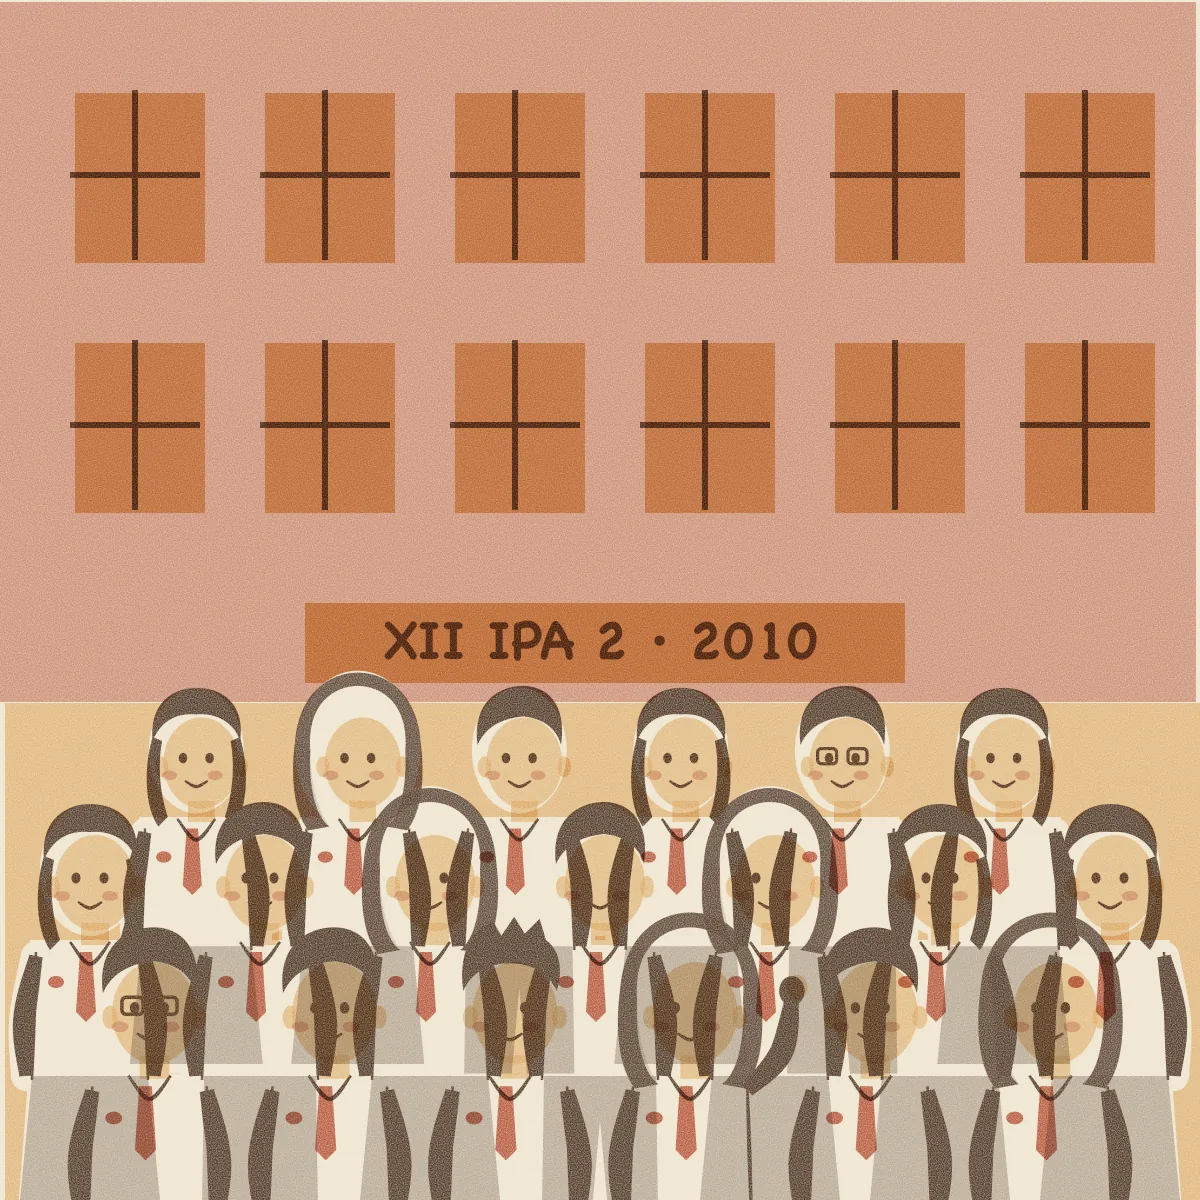
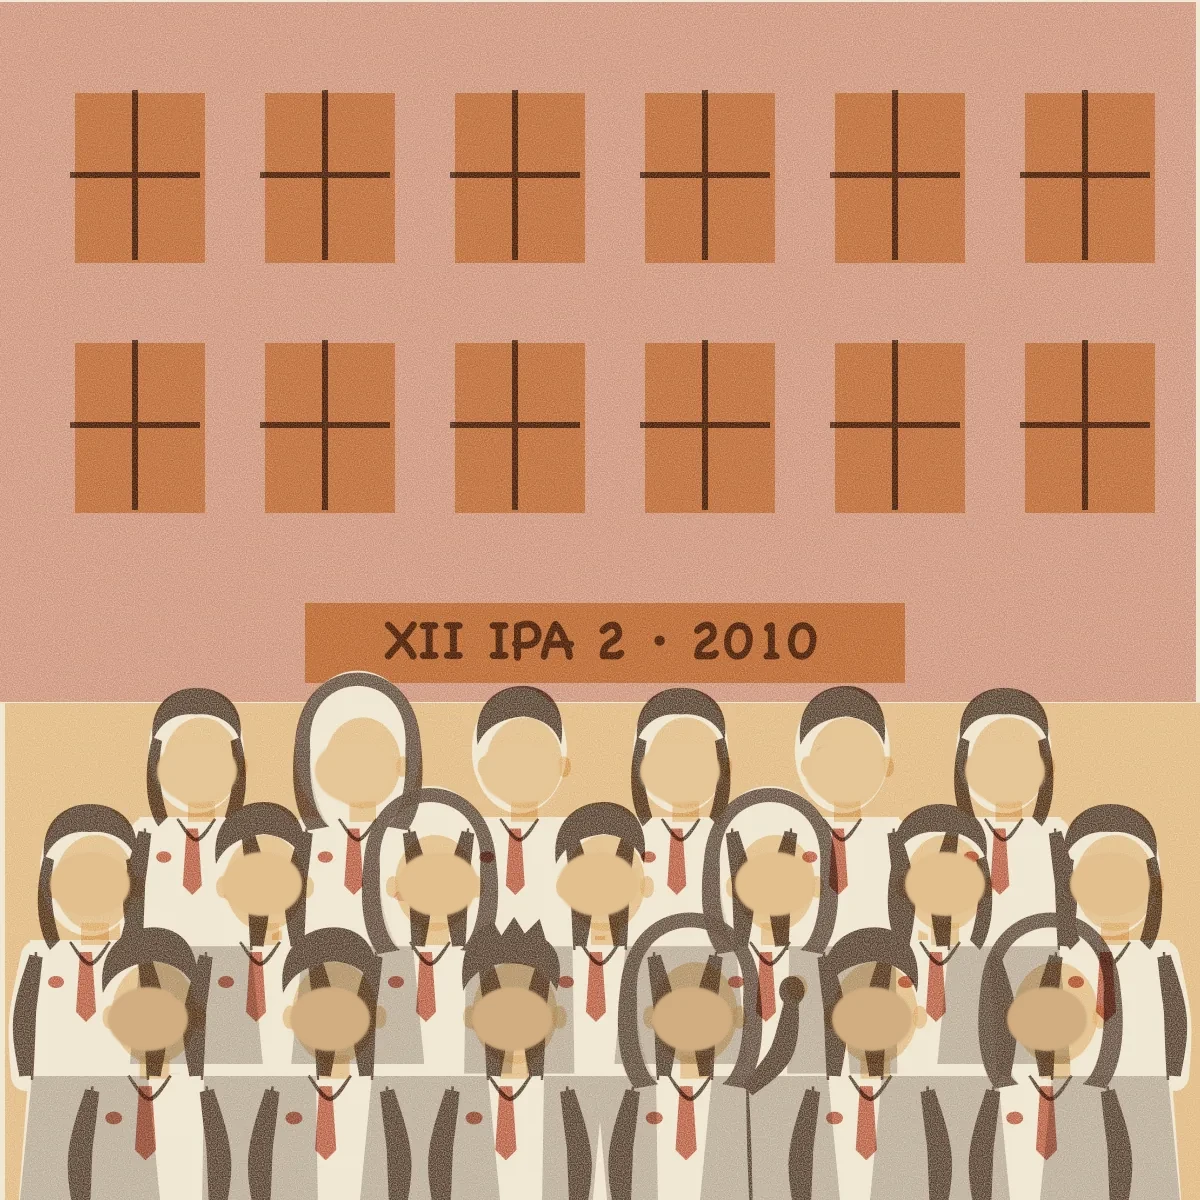
Ilustrasi tokoh dibuat tanpa wajah; varian gambar dan og.jpg diperbarui

diff --git a/public/images/SUMBER.md b/public/images/SUMBER.md
@@ -9,3 +9,5 @@
 | `kenangan-6.webp` | Segelas es teh (pendekatan untuk kantin) | Allthebees, "Glass of Sweet Tea Glistening in the Light of God" | CC0 | https://commons.wikimedia.org/wiki/File:Glass_of_Sweet_Tea_Glistening_in_the_Light_of_God.jpg |
 
 Foto dipangkas persegi 1:1. Tidak ada foto orang berwajah. Sekolah dan tokohnya fiktif.
+
+30 Okt 2026: wajah pada semua ilustrasi tokoh di proyek ini dihapus (wajah polos tanpa mata, hidung, mulut) agar seragam; pose, warna, dan komposisi tetap. Varian WebP dibuat ulang lewat scripts/static-images.mjs.
